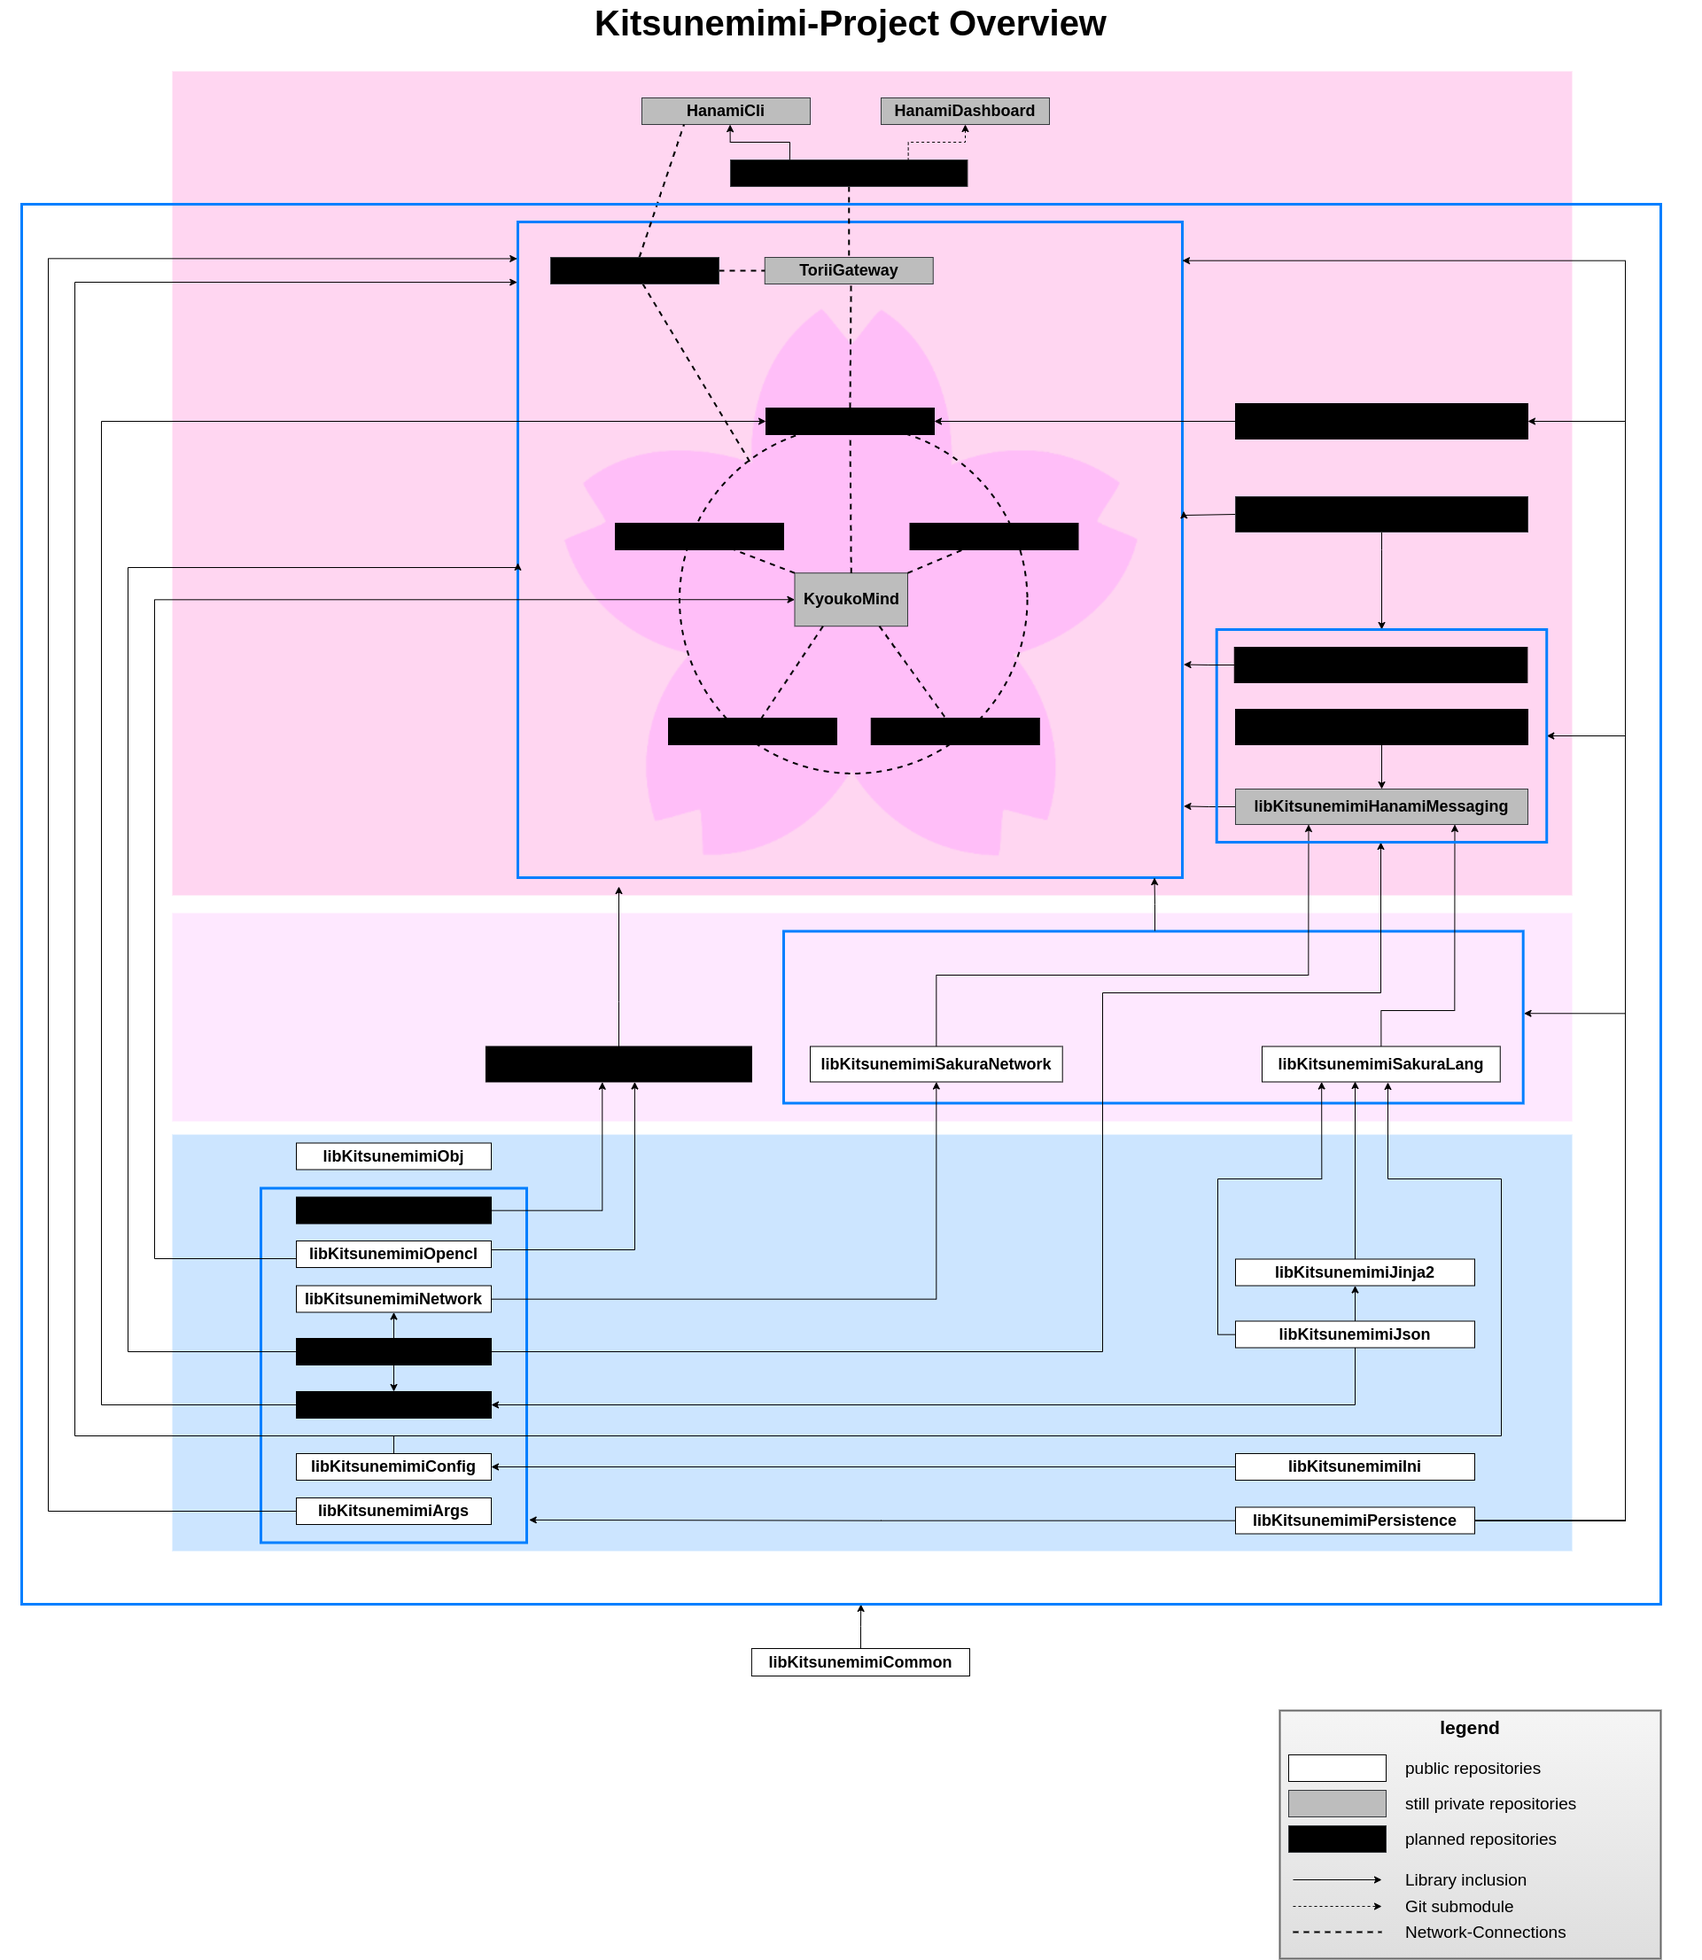
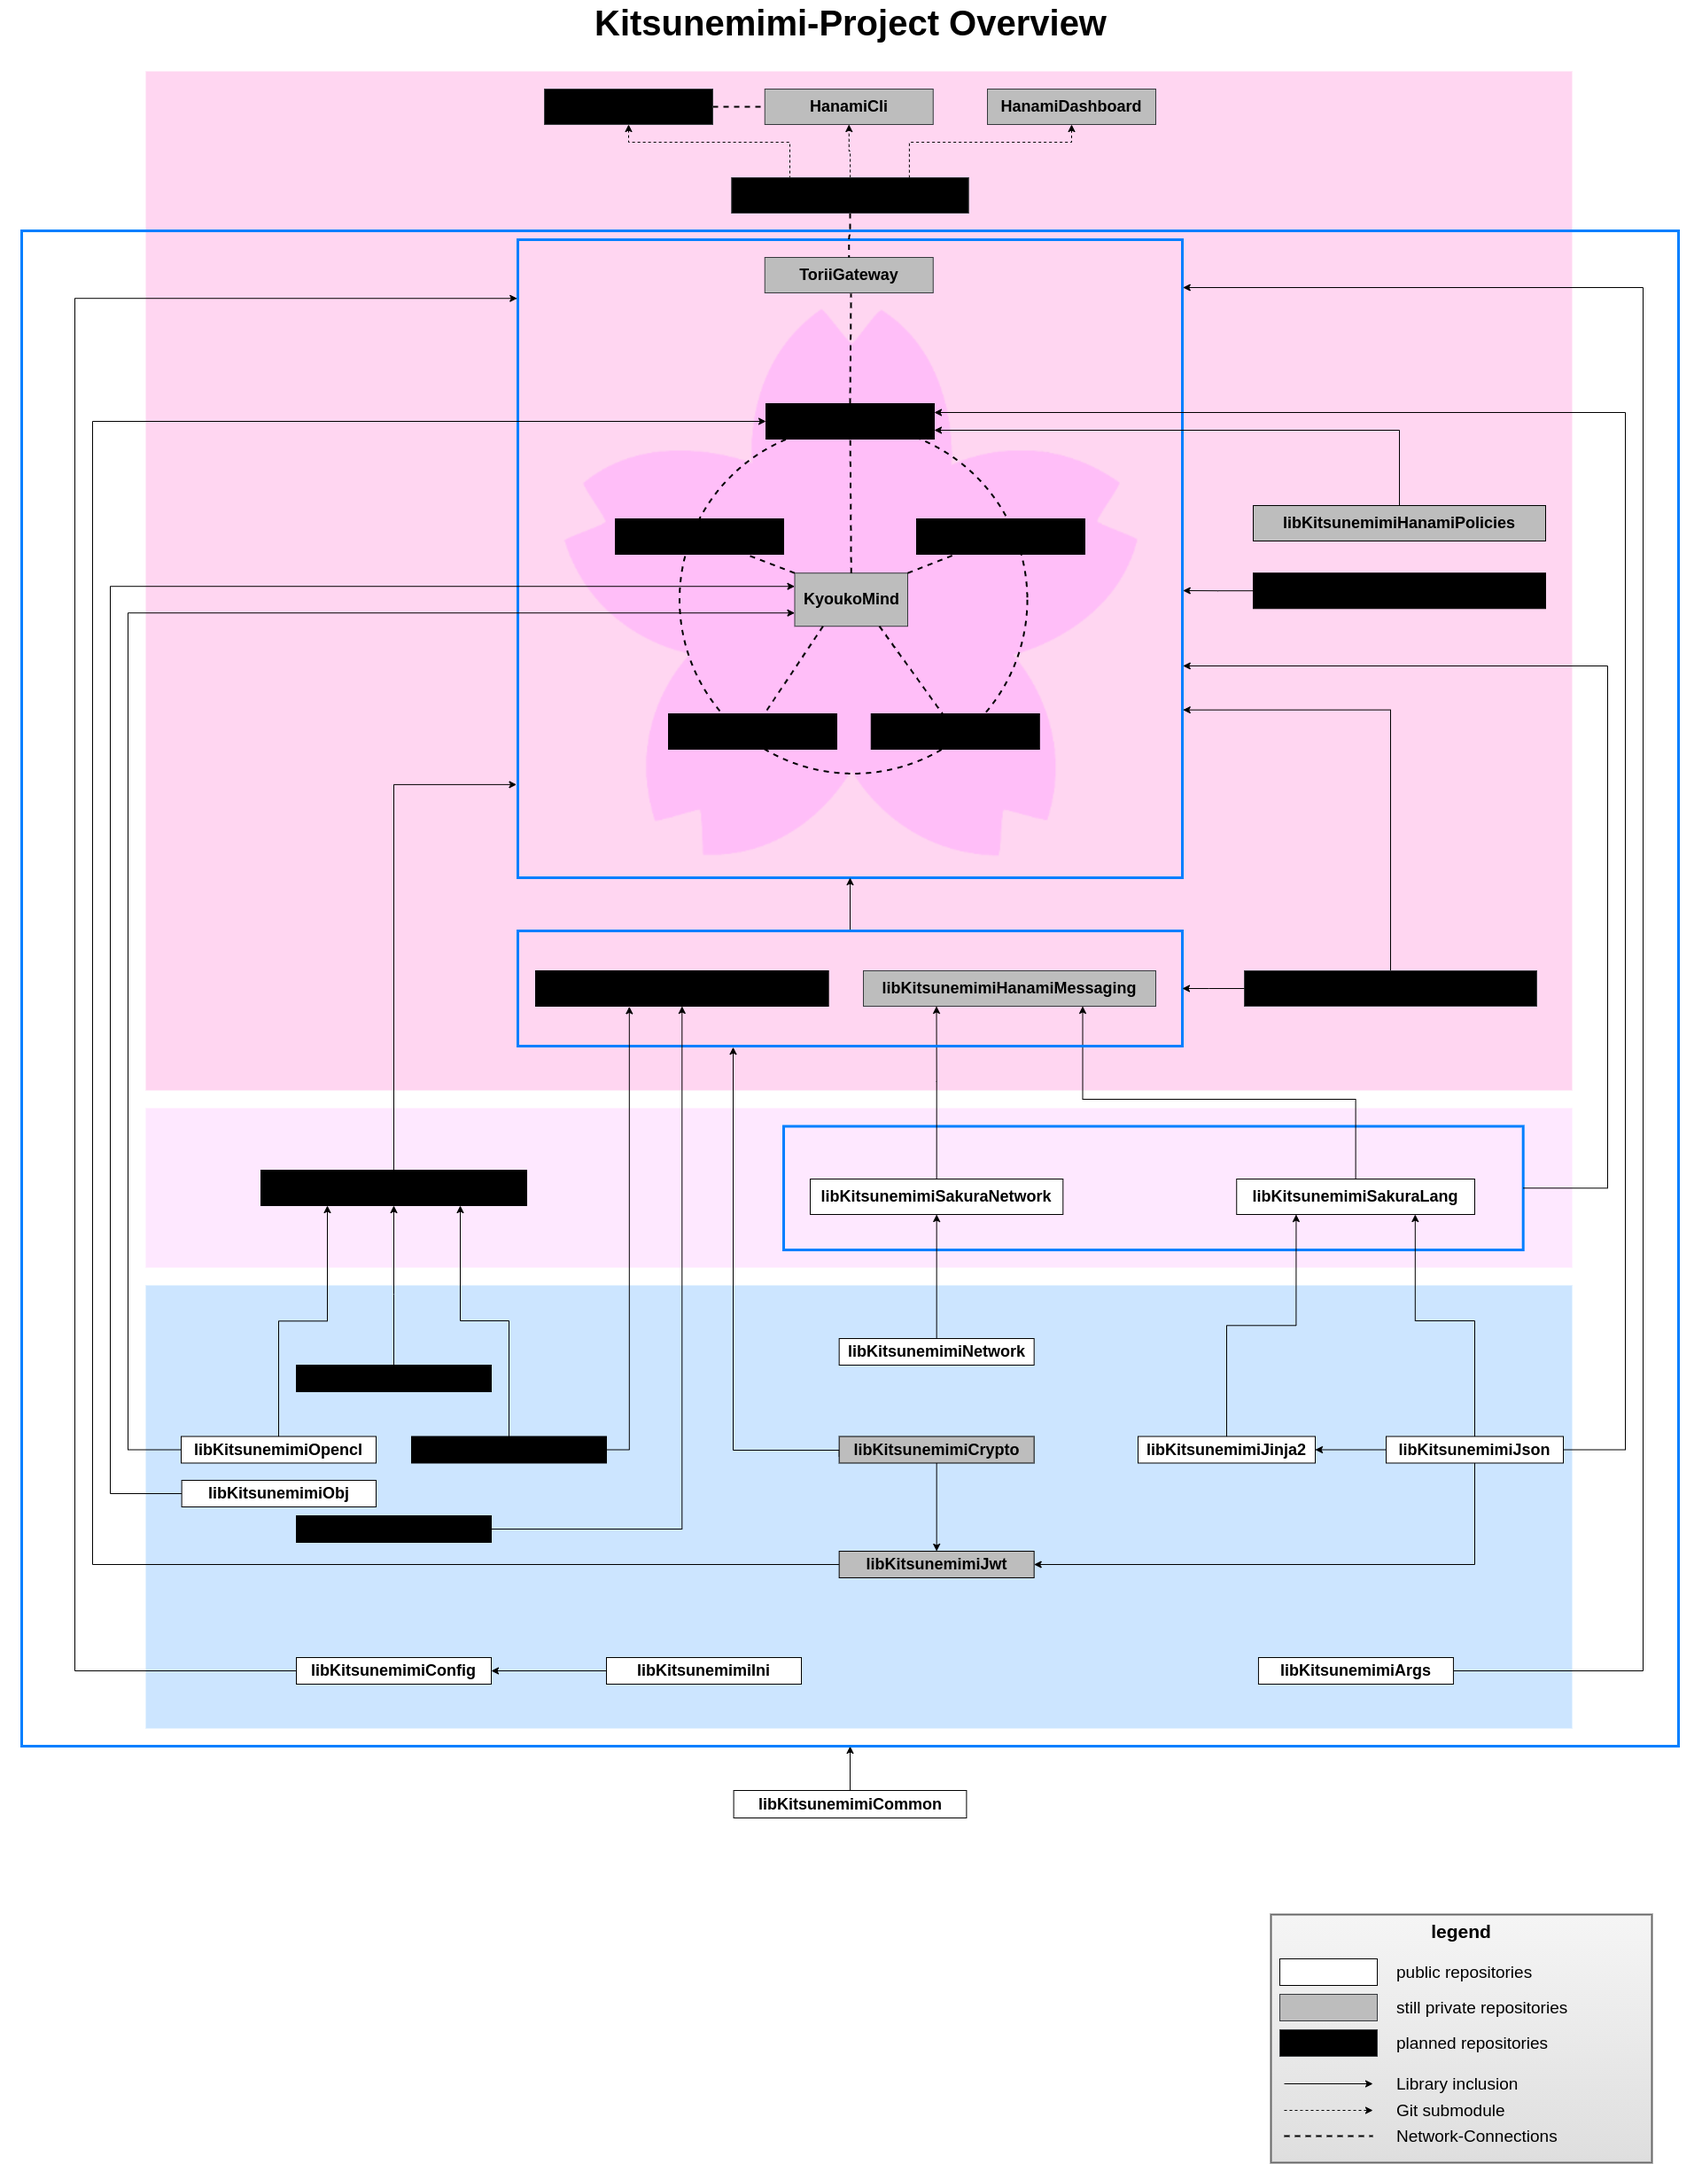
sync

diff --git a/README.md b/README.md
@@ -28,6 +28,8 @@ This is the main-project here, but it is still far away to be usable for any tas
 
 [libKitsunemimiHanamiMessaging](#libKitsunemimiHanamiMessaging)
 
+[libKitsunemimiHanamiPolicies](#libKitsunemimiHanamiPolicies)
+
 ### Side-Projects
 
 [SakuraTree](#SakuraTree) (deprecated)
@@ -93,8 +95,6 @@ Core characteristics:
 
 - **visibility**: `private`
 
-- **location**: `self-hosted Gitlab`
-
 #### required tools to build
 
 name | repository | version | task
@@ -144,8 +144,6 @@ __________
 
 - **visibility**: `private`
 
-- **location**: `Github`
-
 #### required tools to build
 
 name | repository | version | task
@@ -194,8 +192,6 @@ __________
 
 - **visibility**: `private`
 
-- **location**: `Github`
-
 __________
 
 ### HanamiCli
@@ -209,8 +205,6 @@ __________
 - **language**: `go`
 
 - **visibility**: `private`
-
-- **location**: `Github`
 
 #### required tools to build
 
@@ -239,8 +233,6 @@ Documentation of current version: https://files.kitsunemimi.moe/docs/SakuraTree-
 - **language**: `C++14`
 
 - **visibility**: `public`
-
-- **location**: `Github`
 
 - **repo-path**: https://github.com/kitsudaiki/SakuraTree.git
 
@@ -282,13 +274,9 @@ __________
 
 - **current version**: `0.1.0`
 
-- **license**: `Apache 2`
-
 - **language**: `C++14`
 
 - **visibility**: `private`
-
-- **location**: `Github`
 
 #### Required build tools
 
@@ -323,6 +311,36 @@ libKitsunemimiSakuraNetwork | v0.6.0 |  https://github.com/kitsudaiki/libKitsune
 
 __________
 
+### libKitsunemimiHanamiPolicies
+
+#### Metadata
+
+- **content**: Additional application-layer of the project related network stack.
+
+- **current version**: `0.1.0`
+
+- **language**: `C++17`
+
+- **visibility**: `private`
+
+#### Required build tools
+
+name | repository | version | task
+--- | --- | --- | ---
+g++ | g++ | >= 8.0 | Compiler for the C++ code.
+make | make | >= 4.0 | process the make-file, which is created by qmake to build the programm with g++
+qmake | qt5-qmake | >= 5.0 | This package provides the tool qmake, which is similar to cmake and create the make-file for compilation.
+FLEX | flex | >= 2.6 | Build the lexer-code for all used parser.
+GNU Bison | bison | >= 3.0 | Build the parser-code together with the lexer-code.
+
+#### Required kitsunemimi libraries
+
+Repository-Name | Version-Tag | Download-Path
+--- | --- | ---
+libKitsunemimiCommon | v0.20.0 |  https://github.com/kitsudaiki/libKitsunemimiCommon.git
+
+__________
+
 ### libKitsunemimiSakuraNetwork
 
 #### Metadata
@@ -336,8 +354,6 @@ __________
 - **language**: `C++14`
 
 - **visibility**: `public`
-
-- **location**: `Github`
 
 - **repo-path**: https://github.com/kitsudaiki/libKitsunemimiSakuraNetwork.git
 
@@ -379,8 +395,6 @@ __________
 - **language**: `C++14`
 
 - **visibility**: `public`
-
-- **location**: `Github`
 
 - **repo-path**: https://github.com/kitsudaiki/libKitsunemimiSakuraLang.git
 
@@ -425,8 +439,6 @@ __________
 
 - **visibility**: `public`
 
-- **location**: `Github`
-
 - **repo-path**: https://github.com/kitsudaiki/libKitsunemimiObj.git
 
 #### Required build tools
@@ -465,8 +477,6 @@ __________
 - **language**: `C++14`
 
 - **visibility**: `public`
-
-- **location**: `Github`
 
 - **repo-path**: https://github.com/kitsudaiki/libKitsunemimiOpencl.git
 
@@ -509,8 +519,6 @@ __________
 
 - **visibility**: `public`
 
-- **location**: `Github`
-
 - **repo-path**: https://github.com/kitsudaiki/libKitsunemimiConfig.git
 
 #### Required build tools
@@ -545,15 +553,13 @@ __________
 
 - **content**: Small and easy to use parser for CLI-arguments.
 
-- **current version**: `0.2.2`
+- **current version**: `0.3.0`
 
 - **license**: `MIT`
 
-- **language**: `C++14`
+- **language**: `C++17`
 
 - **visibility**: `public`
-
-- **location**: `Github`
 
 - **repo-path**: https://github.com/kitsudaiki/libKitsunemimiArgs.git
 
@@ -561,22 +567,15 @@ __________
 
 name | repository | version | task
 --- | --- | --- | ---
-g++ | g++ | >= 6.0 | Compiler for the C++ code.
+g++ | g++ | >= 8.0 | Compiler for the C++ code.
 make | make | >= 4.0 | process the make-file, which is created by qmake to build the programm with g++
 qmake | qt5-qmake | >= 5.0 | This package provides the tool qmake, which is similar to cmake and create the make-file for compilation.
-
-#### Required generic libraries
-
-name | repository | version | task
---- | --- | --- | ---
-boost-filesystem library | libboost-filesystem-dev | 1.6x | interactions with files and directories on the system
 
 #### Required kitsunemimi libraries
 
 Repository-Name | Version-Tag | Download-Path
 --- | --- | ---
-libKitsunemimiCommon | v0.18.0 |  https://github.com/kitsudaiki/libKitsunemimiCommon.git
-libKitsunemimiPersistence | v0.10.2 | https://github.com/kitsudaiki/libKitsunemimiPersistence.git
+libKitsunemimiCommon | v0.20.0 |  https://github.com/kitsudaiki/libKitsunemimiCommon.git
 
 __________
 
@@ -586,15 +585,13 @@ __________
 
 - **content**: This is a small library for network connections. It provides servers and clients for unix-domain-sockets, tcp-sockets and ssl encrypted tcp-sockets.
 
-- **current version**: `0.6.6`
+- **current version**: `0.6.7`
 
 - **license**: `MIT`
 
-- **language**: `C++14`
+- **language**: `C++17`
 
 - **visibility**: `public`
-
-- **location**: `Github`
 
 - **repo-path**: https://github.com/kitsudaiki/libKitsunemimiNetwork.git
 
@@ -602,7 +599,7 @@ __________
 
 name | repository | version | task
 --- | --- | --- | ---
-g++ | g++ | >= 6.0 | Compiler for the C++ code.
+g++ | g++ | >= 8.0 | Compiler for the C++ code.
 make | make | >= 4.0 | process the make-file, which is created by qmake to build the programm with g++
 qmake | qt5-qmake | >= 5.0 | This package provides the tool qmake, which is similar to cmake and create the make-file for compilation.
 
@@ -610,15 +607,13 @@ qmake | qt5-qmake | >= 5.0 | This package provides the tool qmake, which is simi
 
 name | repository | version | task
 --- | --- | --- | ---
-boost-filesystem library | libboost-filesystem-dev | 1.6x | interactions with files and directories on the system
 ssl library | libssl-dev | 1.1.x | encryption for tls connections
 
 #### Required kitsunemimi libraries
 
 Repository-Name | Version-Tag | Download-Path
 --- | --- | ---
-libKitsunemimiCommon | v0.18.0 |  https://github.com/kitsudaiki/libKitsunemimiCommon.git
-libKitsunemimiPersistence | v0.10.2 | https://github.com/kitsudaiki/libKitsunemimiPersistence.git
+libKitsunemimiCommon | v0.20.0 |  https://github.com/kitsudaiki/libKitsunemimiCommon.git
 
 __________
 
@@ -635,8 +630,6 @@ __________
 - **language**: `C++14`
 
 - **visibility**: `public`
-
-- **location**: `Github`
 
 - **repo-path**: https://github.com/kitsudaiki/libKitsunemimiJinja2.git
 
@@ -673,8 +666,6 @@ __________
 
 - **visibility**: `public`
 
-- **location**: `Github`
-
 - **repo-path**: https://github.com/kitsudaiki/libKitsunemimiIni.git
 
 #### Required build tools
@@ -706,8 +697,6 @@ __________
 - **language**: `C++17`
 
 - **visibility**: `private`
-
-- **location**: `Github`
 
 #### Required build tools
 
@@ -743,8 +732,6 @@ __________
 
 - **visibility**: `private`
 
-- **location**: `Github`
-
 #### Required build tools
 
 name | repository | version | task
@@ -773,11 +760,9 @@ __________
 
 - **license**: `MIT`
 
-- **language**: `C++14`
+- **language**: `C++17`
 
 - **visibility**: `public`
-
-- **location**: `Github`
 
 - **repo-path**: https://github.com/kitsudaiki/libKitsunemimiJson.git
 
@@ -814,8 +799,6 @@ __________
 - **language**: `C++14`
 
 - **visibility**: `public`
-
-- **location**: `Github`
 
 - **repo-path**: https://github.com/kitsudaiki/libKitsunemimiPersistence.git
 
@@ -855,8 +838,6 @@ __________
 - **language**: `C++17`
 
 - **visibility**: `public`
-
-- **location**: `Github`
 
 - **repo-path**: https://github.com/kitsudaiki/libKitsunemimiCommon.git
 
